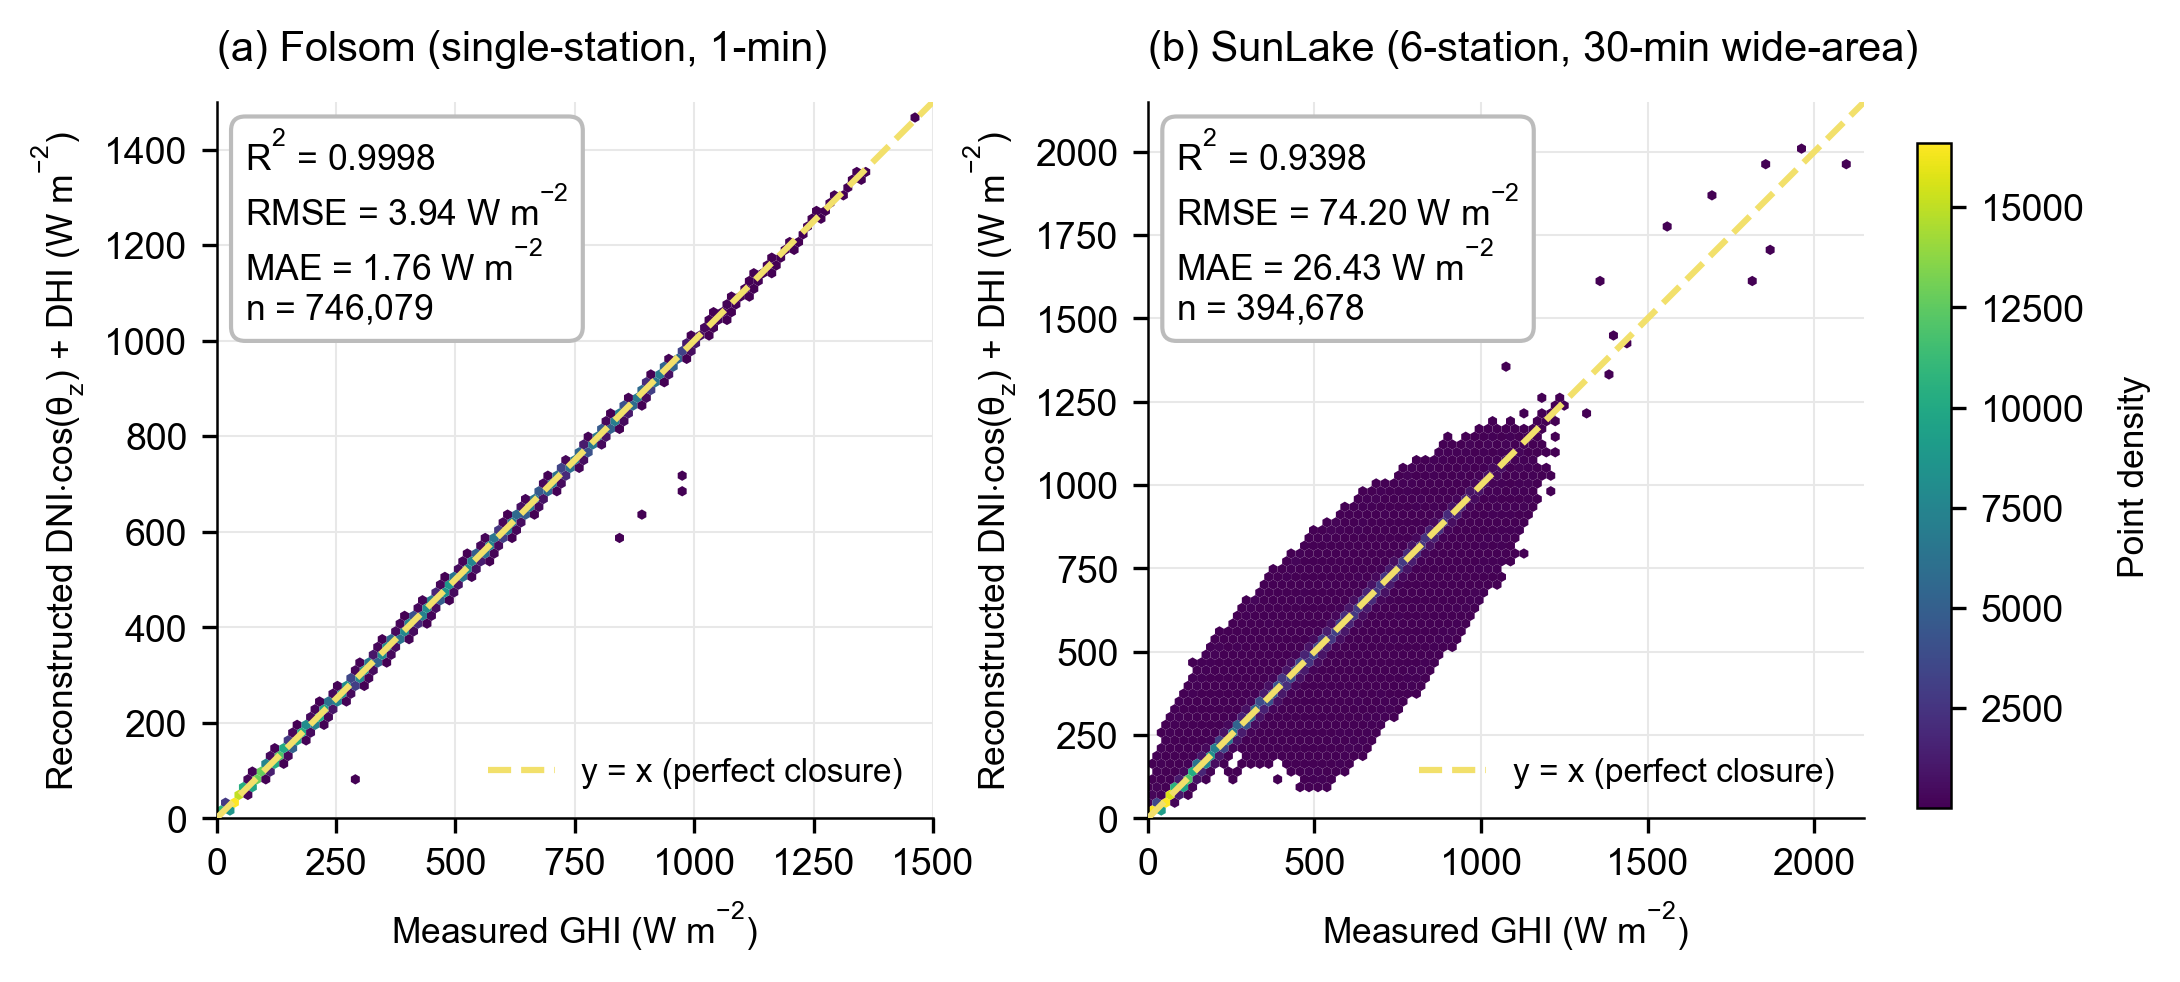
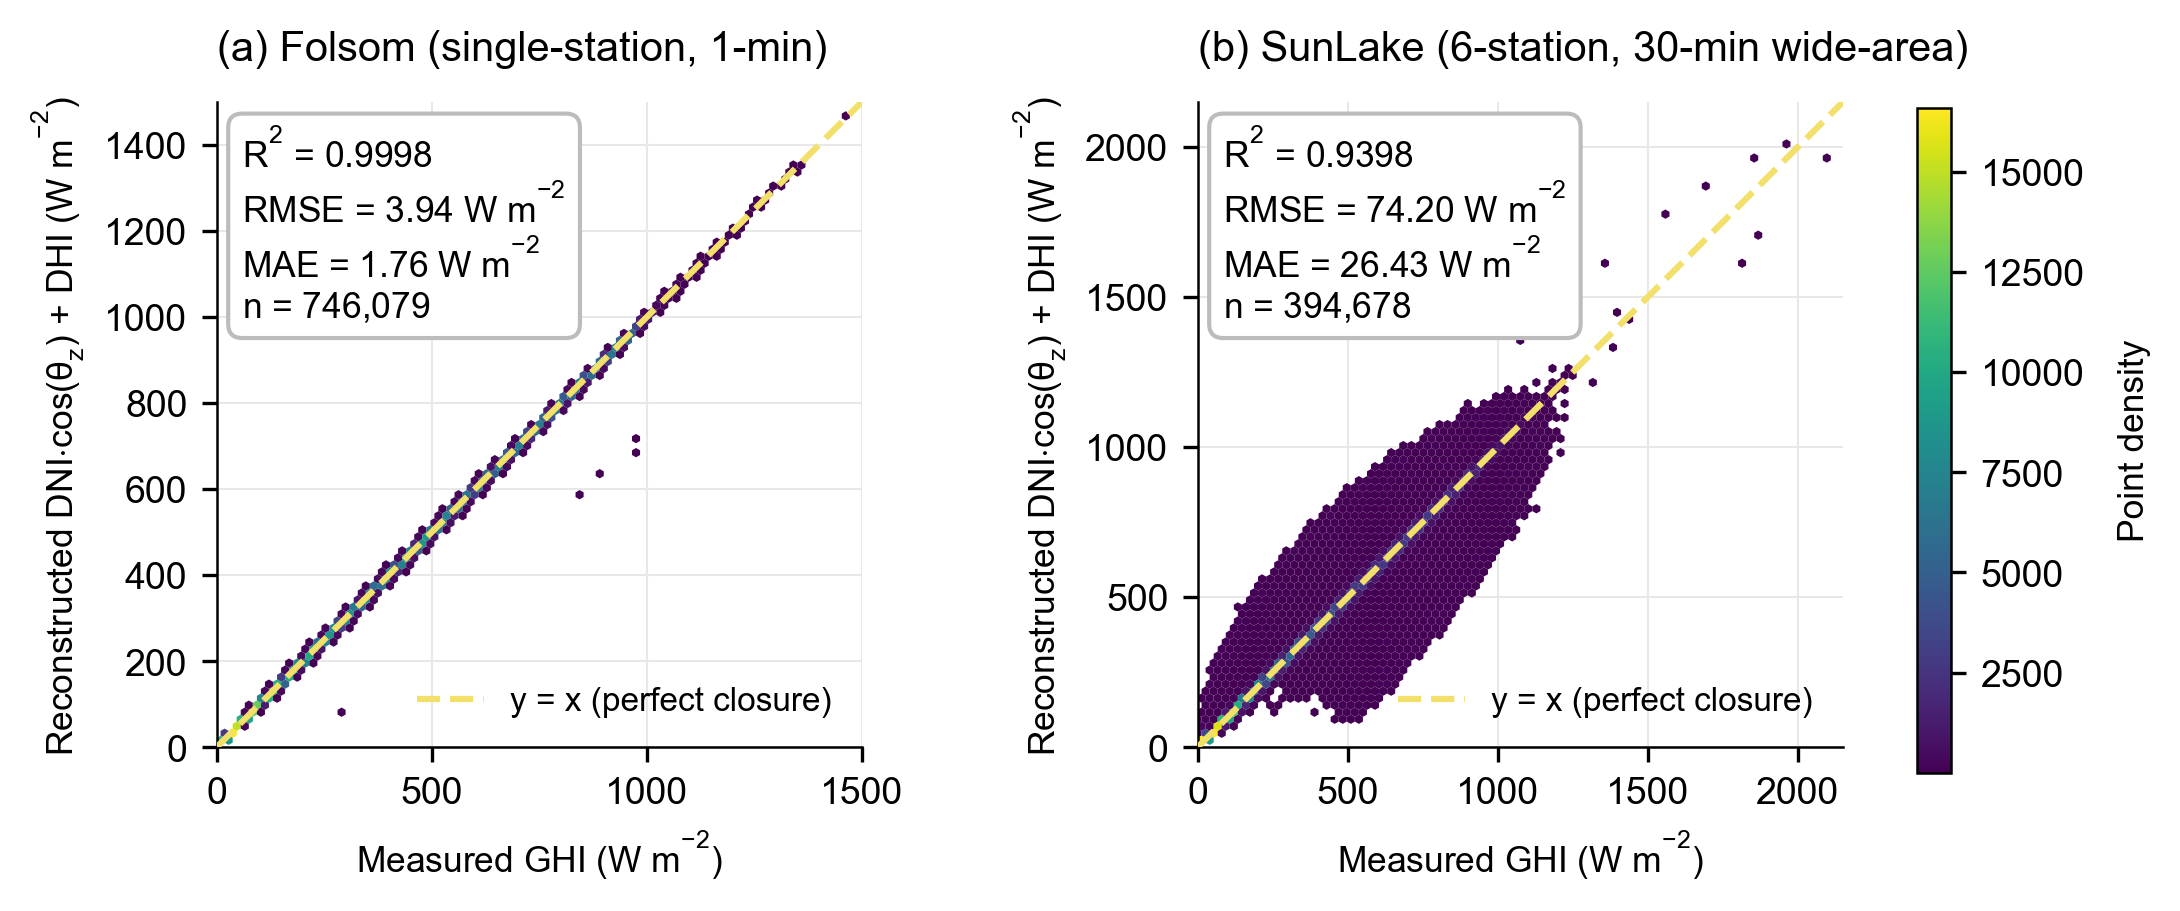
viz(essd-fig7): panels spaced apart (wspace 0.30 -> 0.52)

diff --git a/scripts/plot_essd_fig7_closure.py b/scripts/plot_essd_fig7_closure.py
@@ -105,7 +105,7 @@ def main() -> int:
         ax.spines["top"].set_visible(False)
         ax.spines["right"].set_visible(False)
 
-    plt.subplots_adjust(left=0.095, right=0.87, wspace=0.30,
+    plt.subplots_adjust(left=0.095, right=0.86, wspace=0.52,
                         bottom=0.16, top=0.87)
     cbar_ax = fig.add_axes([0.895, 0.18, 0.016, 0.64])
     cb = fig.colorbar(hb, cax=cbar_ax)
